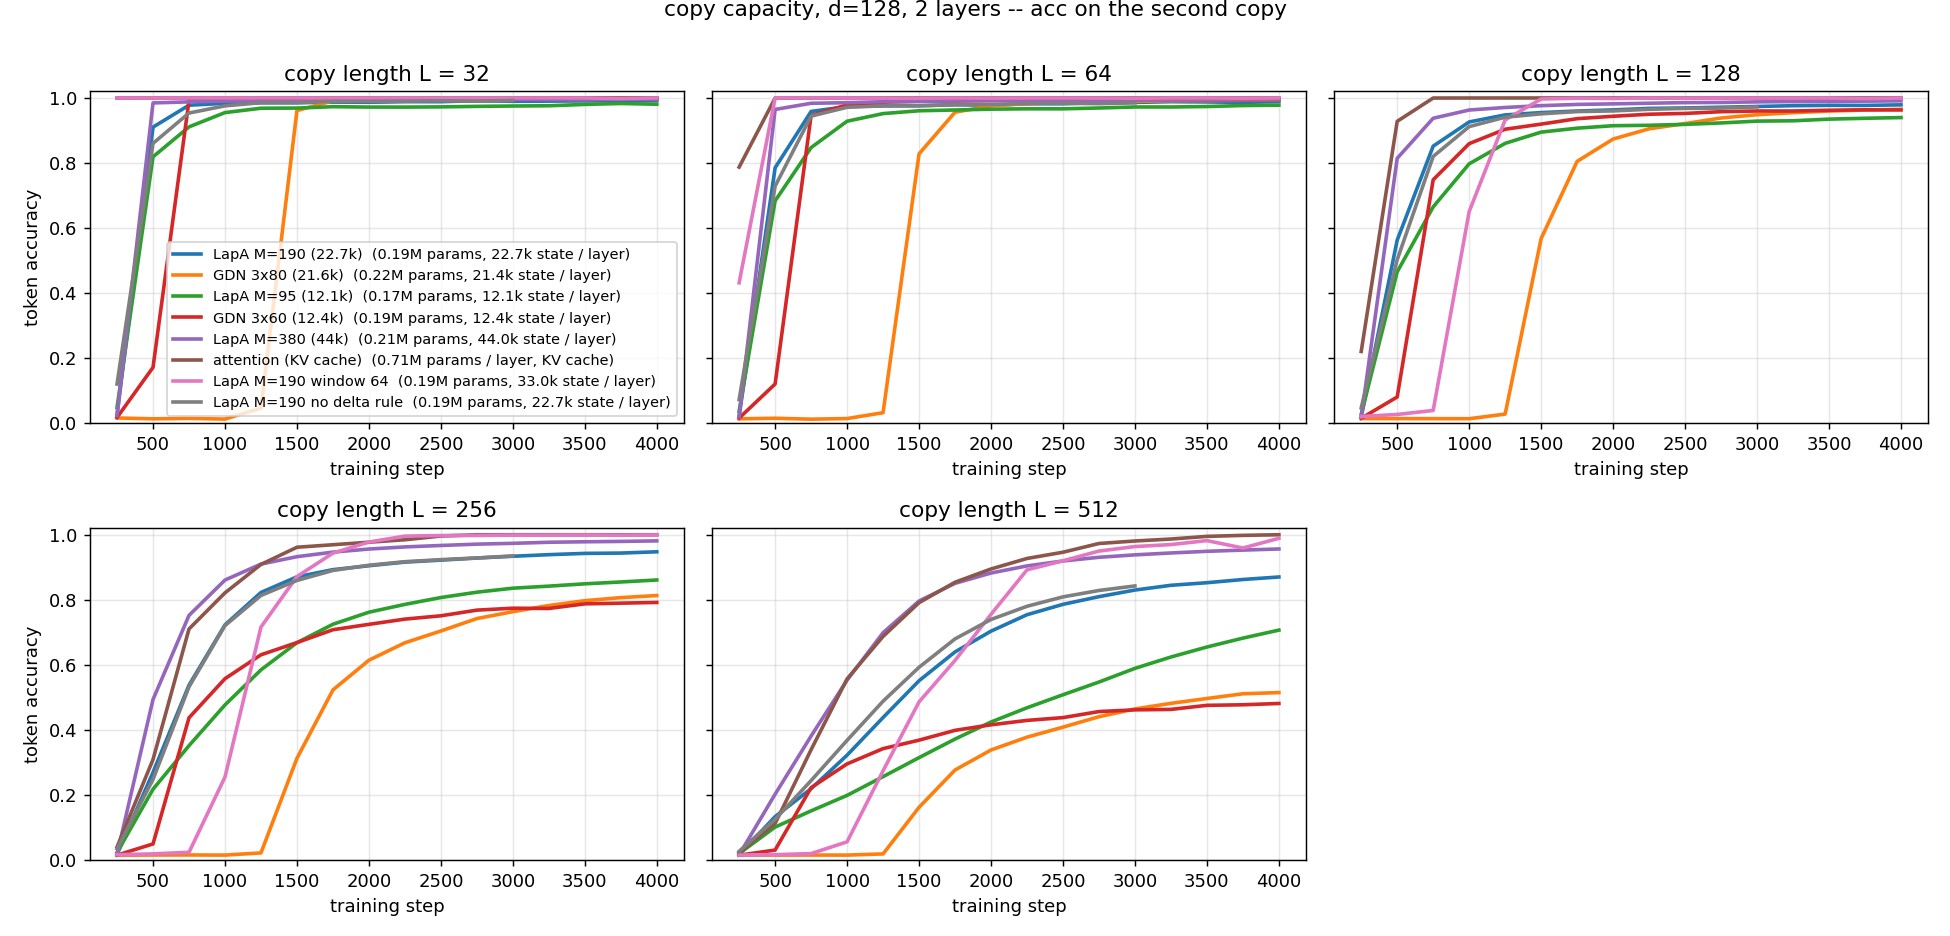
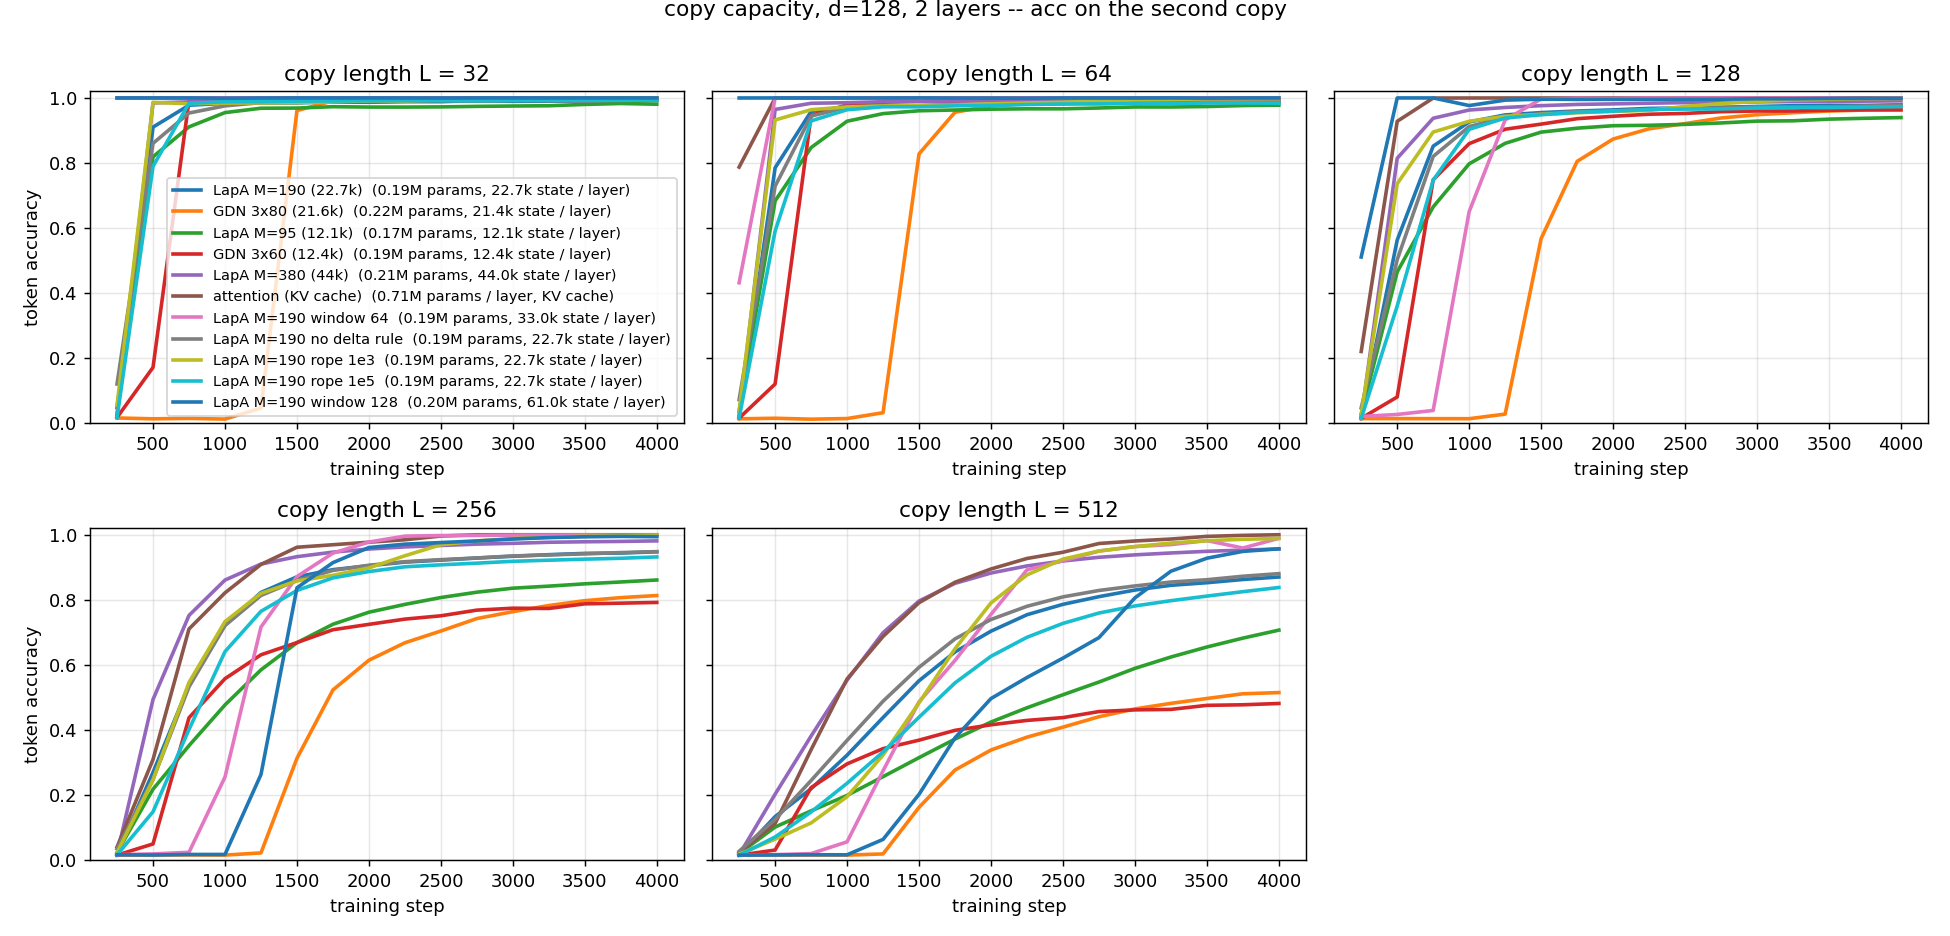
rope_base plumbed through sca2 + pretrain; banded read in sca2 short head; copy --save; night LM script (rope 1e3, +window 64)

diff --git a/sca2/ref.py b/sca2/ref.py
@@ -53,7 +53,7 @@ def _gated_out(head, u, z):
 # --------------------------------------------------------------------------- #
 #  C head positional frequency grids
 # --------------------------------------------------------------------------- #
-def freq_grid(name, M, max_len=128):
+def freq_grid(name, M, max_len=128, base=10000.0):
     """Positional angular frequencies for the C head.
 
     Not a free choice: this grid decides what the C head computes AT INIT.
@@ -111,7 +111,7 @@ def freq_grid(name, M, max_len=128):
     if name == "len":
         return 2 * math.pi * k / max_len
     if name == "rope":
-        return math.pi * (10000.0 ** (-k / max(M - 1, 1)))
+        return math.pi * (base ** (-k / max(M - 1, 1)))
     raise ValueError(f"unknown freq grid {name!r}")
 
 
@@ -122,7 +122,7 @@ class CHeadBase(nn.Module):
     """Parameter container. Shared by every variant so state_dicts are portable."""
 
     def __init__(self, d, M, freq="dft", theta_scale=0.0, max_len=128, dv=None,
-                 gated_read=False):
+                 gated_read=False, rope_base=10000.0):
         super().__init__()
         self.d, self.M, self.dv = d, M, (d // 2 if dv is None else dv)
         self.freq, self.theta_scale, self.max_len = freq, theta_scale, max_len
@@ -134,7 +134,7 @@ class CHeadBase(nn.Module):
         # non-zero init keeps the near-positional warm start and unblocks K.
         self.theta = nn.Parameter(
             torch.zeros(M) if theta_scale == 0.0 else theta_scale * torch.randn(M))
-        self.register_buffer("omega", freq_grid(freq, M, max_len))
+        self.register_buffer("omega", freq_grid(freq, M, max_len, rope_base))
         self.wr = nn.Parameter(torch.ones(M))
         self.wi = nn.Parameter(torch.zeros(M))
         self.gated_read = gated_read
@@ -302,6 +302,7 @@ class LayerCfg:
     # comparing it against SCA2 only means something at a MATCHED state size --
     # raising Mc grows SCA2's state fast, so GDN needs the same lever.
     Ls: int = 16            # window of the short dft C head (arch_short.py), in tokens
+    rope_base: float = 10000.0   # long-head grid omega_m = pi * base^(-m/(M-1)); unaliased range 2*base. Copy bench: base ~ T wins
     gdn_heads: int = 3
     gdn_head_k: int = 60
     gdn_expand_v: float = 1.0
@@ -331,7 +332,8 @@ class SCA2Layer(nn.Module):
         dv = cfg.dv if cfg.dv is not None else d // 2
         self.n = nn.LayerNorm(d)
         self.c = c_cls(d, cfg.Mc, freq=cfg.freq, theta_scale=cfg.theta_scale,
-                       max_len=cfg.max_len, dv=dv, gated_read=cfg.gated_read)
+                       max_len=cfg.max_len, dv=dv, gated_read=cfg.gated_read,
+                       rope_base=cfg.rope_base)
         self.dh = d_cls(d, cfg.Md, cfg.G, dv=dv, max_len=cfg.max_len,
                         delta_rule=cfg.delta_rule, gated_read=cfg.gated_read)
         self.mix = nn.Linear(4 * dv, d)      # each head emits 2*dv (re || im)

diff --git a/pretrain.py b/pretrain.py
@@ -186,6 +186,7 @@ def main(argv=None):
     # tokenizer files the corpus was built with
     # GDN head shape, for --variant gdn* (whole mixer) and hyb* (D-head slot)
     p.add_argument("--Ls", type=int, default=16, help="window of the short dft C head (--variant cshort*)")
+    p.add_argument("--rope-base", type=float, default=10000.0, dest="rope_base", help="long-head rope grid base (unaliased range 2*base)")
     p.add_argument("--gdn-heads", type=int, default=3, dest="gdn_heads")
     p.add_argument("--gdn-head-k", type=int, default=60, dest="gdn_head_k")
     p.add_argument("--gdn-expand-v", type=float, default=1.0, dest="gdn_expand_v")
@@ -209,7 +210,7 @@ def main(argv=None):
                    c_heads=a.c_heads, c_decay=a.c_decay, c_decay_init=a.c_decay_init,
                    c_sepq=a.c_sepq, conv=a.conv,
                    gated_read=a.gated_read,
-                   Ls=a.Ls, gdn_heads=a.gdn_heads, gdn_head_k=a.gdn_head_k,
+                   Ls=a.Ls, rope_base=a.rope_base, gdn_heads=a.gdn_heads, gdn_head_k=a.gdn_head_k,
                    gdn_expand_v=a.gdn_expand_v)
     log = open(a.log, "a")
     models = {}

diff --git a/lapa/benchmarks/copy.py b/lapa/benchmarks/copy.py
@@ -166,6 +166,10 @@ def run(a):
                 flush=True,
             )
     log.close()
+    if a.save:
+        torch.save({"model": m.state_dict(), "arm": a.arm, "kw": kw, "d": a.d, "layers": a.layers,
+                    "vocab": V, "label": label, "lengths": lengths, "symbols": S}, a.save)
+        print("saved", a.save, flush=True)
 
 
 def plot(a):
@@ -272,6 +276,7 @@ def main(argv=None):
     r.add_argument("--seed", type=int, default=0)
     r.add_argument("--device", default="cuda" if torch.cuda.is_available() else "cpu")
     r.add_argument("--log", default="runs/copy_lapa.jsonl")
+    r.add_argument("--save", default=None, help="save the final model state_dict here (for per-layer ablations)")
     pl = sub.add_parser("plot")
     pl.add_argument("log")
     pl.add_argument("--out", default="plot/copy.png", help="token-accuracy figure; the exact-string figure is written next to it as *_exact")
